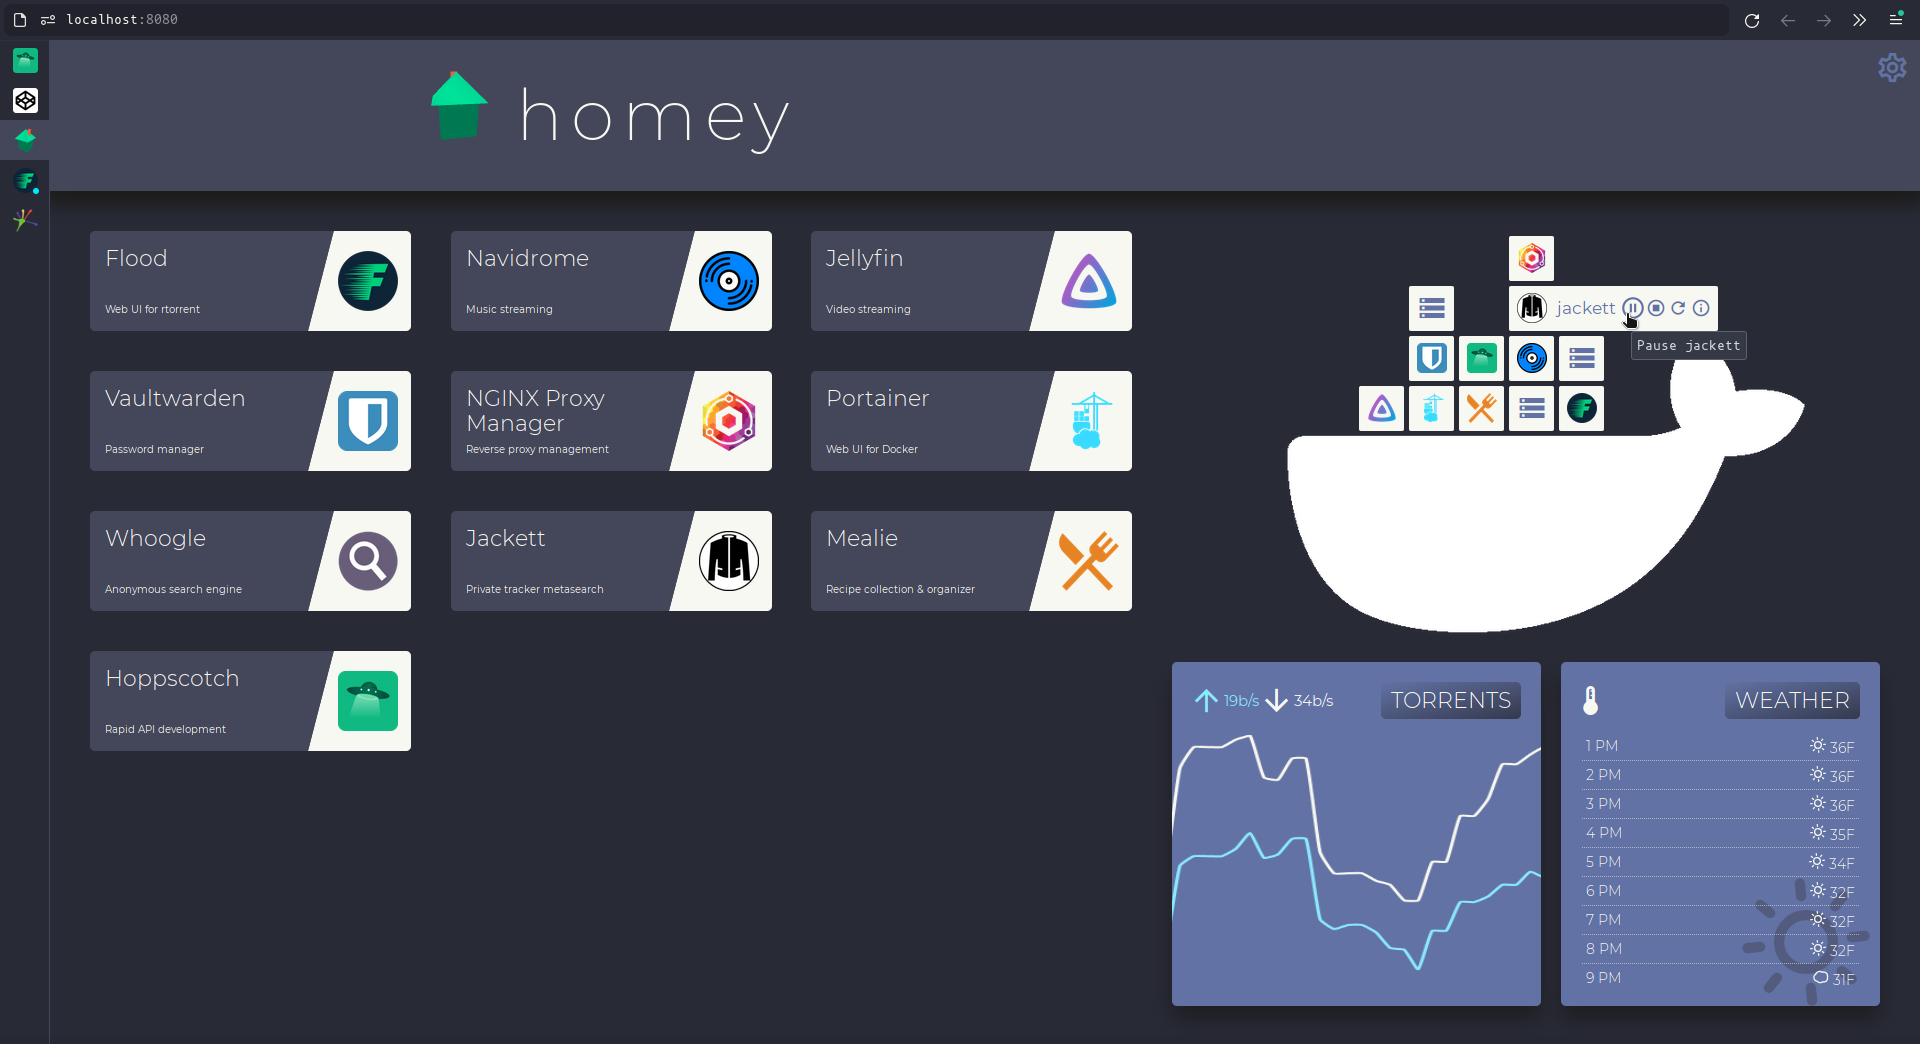
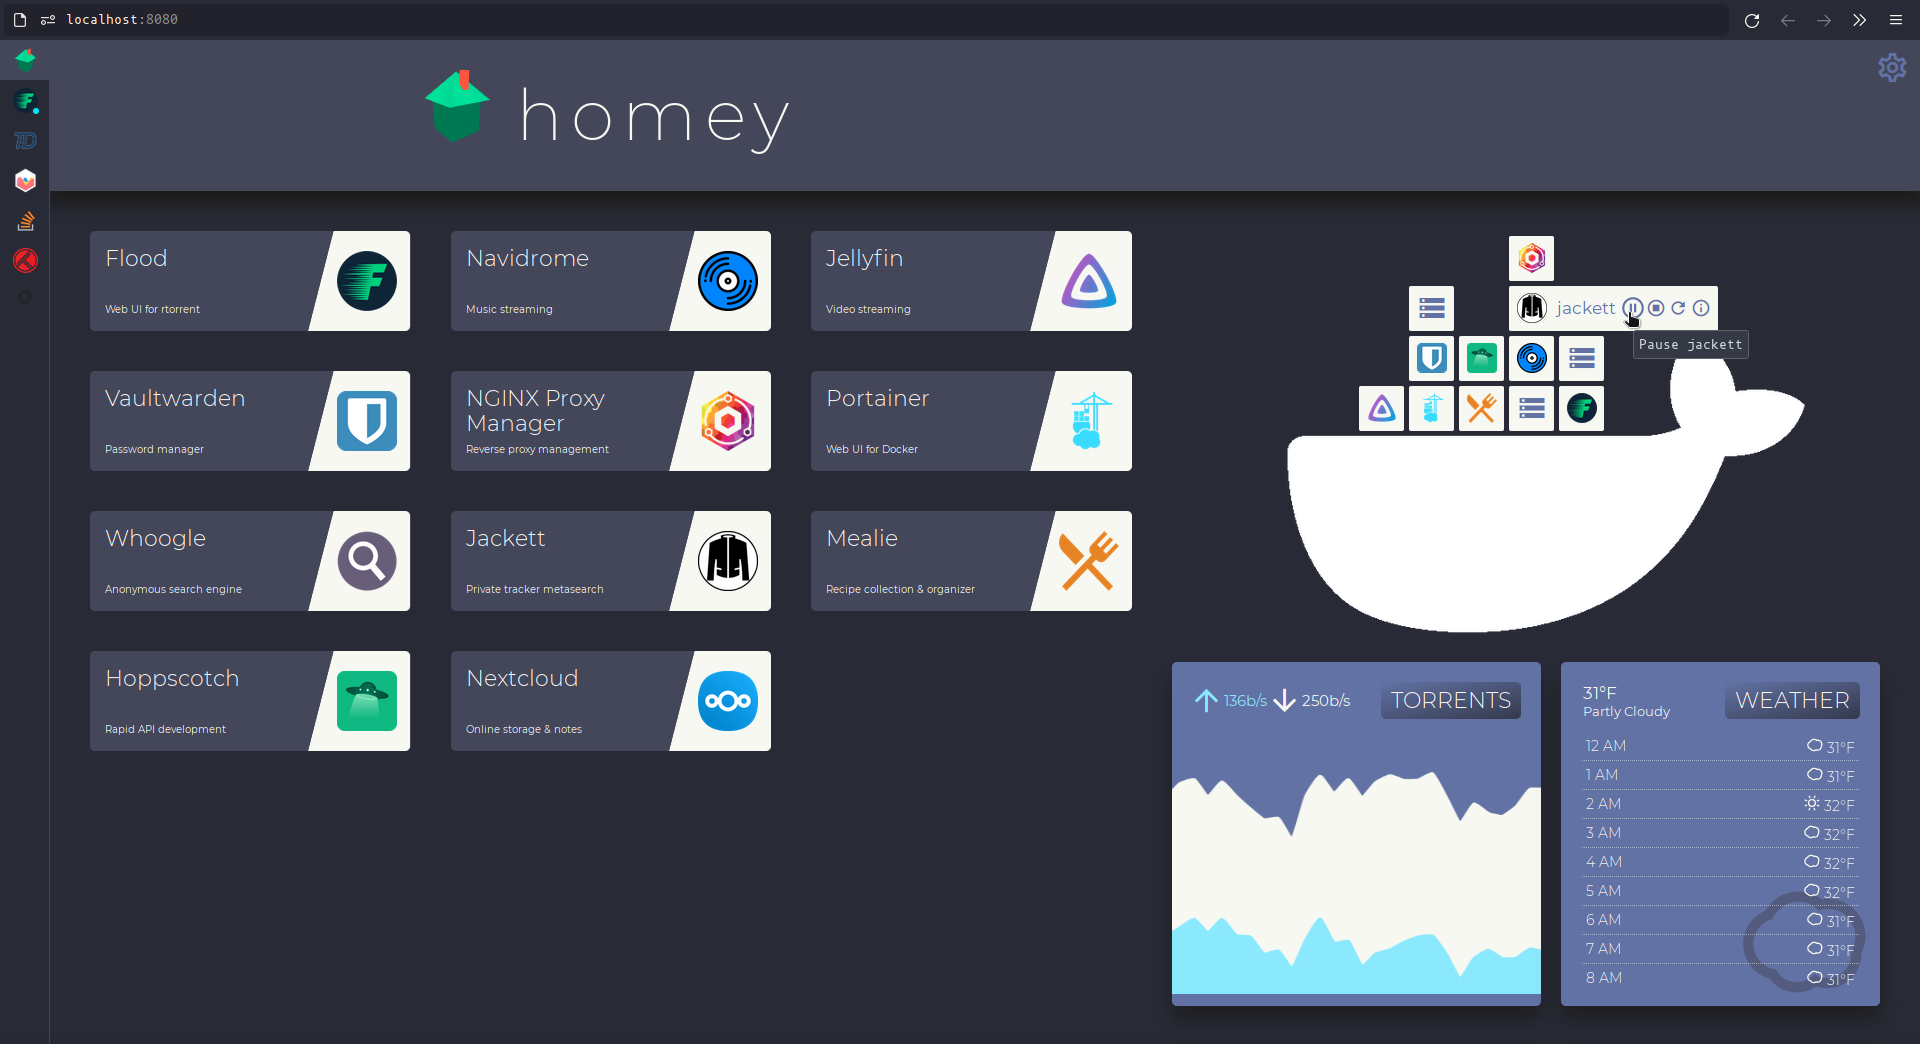
Update card styles

diff --git a/src/components/WeatherCard.vue b/src/components/WeatherCard.vue
@@ -1,11 +1,14 @@
 <template>
   <div class="weather-card-container">
       <div class="weather-card-container__side weather-card-container__side--front">
-          <skycon class="weather-card-container__skycon" v-if="weatherDataHourly.length > 1" 
-                :title="weatherDataHourly[0].weather_type" size=128 color="#44475a" :condition="getSkycon(weatherDataHourly[0].weather_type)"/>
+          <skycon class="weather-card-container__background--skycon" v-if="weatherDataHourly.length > 1" 
+                :title="getCurrentWeather.weather_type" size=128 color="#44475a" :condition="getSkycon(getCurrentWeather.weather_type)"/>
           <div class="weather-card-container__heading">
+            <!-- <skycon class="weather-card-container__heading--skycon" v-if="weatherDataHourly.length > 1" 
+                :title="getCurrentWeather.weather_type" size=48 color="#f8f8f2" :condition="getSkycon(getCurrentWeather.weather_type)"/> -->
             <div class="weather-card-container__heading--daily-details">
-              <span class="material-icons-outlined">thermostat</span>
+              <div>{{getCurrentWeather.temp}}°F</div>
+              <div>{{getCurrentWeather.weather_type}}</div>
             </div>
             <span class="weather-card-container__heading--title">Weather</span>
           </div>
@@ -15,14 +18,14 @@
                 {{w.time}}<span><skycon :title="w.weather_type" 
                   size="16" color="#F8F8F2" 
                   :condition="getSkycon(w.weather_type)"
-                /> {{w.temp}}F </span>
+                /> {{w.temp}}°F </span>
               </div>
           </div>
       </div>
       <div class="weather-card-container__side weather-card-container__side--back">
           <div class="weather-card-container__weekly-forecast">
             <ul>
-              <li v-for="n in this.weatherDataDaily" :key="n.time" class="weatherElement" >{{n.day}}: {{n.temp_min}}F - {{n.temp_max}}F ({{n.weather_type}})</li>
+              <li v-for="n in this.weatherDataDaily" :key="n.time" class="weatherElement" >{{n.day}}: {{n.temp_min}}°F - {{n.temp_max}}°F ({{n.weather_type}})</li>
             </ul>
           </div>
       </div>
@@ -47,7 +50,12 @@ export default {
     }
   },
   computed: {
-
+    getCurrentWeather: function() {
+      if(this.weatherDataHourly.length > 1){
+        return this.weatherDataHourly[0];
+      }
+      return {temp: 0, weather_type: ''}
+    }
   },
   methods: {
     getHourlyWeather: function() {

diff --git a/src/components/FloodCardChart.vue b/src/components/FloodCardChart.vue
@@ -3,14 +3,11 @@
 </template>
 
 <script>
-    //import { Line } from 'vue-chartjs'
     import { LineChart } from 'vue-chart-3';
     import Chart from 'chart.js/auto';
 
     export default {
         name: 'FloodCardChart',
-        //extends: Line,
-        //props: ['data', 'options'],
         components: {
             LineChart,
         },
@@ -20,6 +17,7 @@
         data: function() {
             return {
                 config: {
+                    responsive: true,
                     scales: {
                         x: {
                             ticks: { display: false},
@@ -57,10 +55,32 @@
                 return { 
                     labels: timeLabels,
                     datasets: [ 
-                        { label: 'Upload', data: upData, borderColor: '#8be9fd', pointRadius: 0, tension: .15 }, 
-                        { label: 'Download', data: downData, borderColor: '#f8f8f2', pointRadius: 0, tension: .15 } 
+                        { 
+                            label: 'Upload', 
+                            data: upData, 
+                            borderColor: '#8be9fd', backgroundColor: '#8be9fd', 
+                            pointRadius: 0, 
+                            tension: .15, 
+                            fill: true,
+                            order: this.getDrawOrder.up
+                        }, 
+                        { 
+                            label: 'Download', 
+                            data: downData, 
+                            borderColor: '#f8f8f2', backgroundColor: '#f8f8f2', 
+                            pointRadius: 0, 
+                            tension: .15, 
+                            fill: true, 
+                            order: this.getDrawOrder.down
+                        } 
                     ], 
                 };
+            },
+            getDrawOrder: function() {
+                if(this.chartData[this.chartData.length-1].up > this.chartData[this.chartData.length-1].down){
+                    return {up: 1, down: 0}
+                }
+                return {up: 0, down: 1}
             }
         },
         mounted() {

diff --git a/public/css/style.css b/public/css/style.css
@@ -211,7 +211,7 @@ h2 {
     .weather-card-container__side--back {
       background-color: #44475a;
       transform: rotateY(180deg); }
-  .weather-card-container__skycon {
+  .weather-card-container__background--skycon {
     position: absolute;
     bottom: 0;
     right: 1rem;
@@ -230,6 +230,10 @@ h2 {
     right: 2rem;
     justify-content: space-between;
     display: flex; }
+    .weather-card-container__heading--skycon {
+      position: absolute;
+      top: 0;
+      left: 1rem; }
     .weather-card-container__heading--title {
       font-size: 2.2rem;
       font-weight: 300;
@@ -239,14 +243,11 @@ h2 {
       border-radius: 5px;
       background-image: linear-gradient(to right bottom, rgba(98, 114, 164, 0.8), rgba(40, 42, 54, 0.8)); }
     .weather-card-container__heading--daily-details {
-      justify-self: flex-start;
-      display: flex;
-      align-items: center;
-      justify-content: space-between; }
-      .weather-card-container__heading--daily-details span {
-        font-size: 3.5rem; }
-      .weather-card-container__heading--daily-details p {
-        font-size: 1.5rem; }
+      font-size: 1.7rem;
+      margin-left: 1rem;
+      text-align: left; }
+      .weather-card-container__heading--daily-details :nth-child(2) {
+        font-size: 1.3rem; }
   .weather-card-container__details {
     font-weight: 300;
     font-size: 1.4rem;
@@ -339,11 +340,7 @@ h2 {
         color: #8be9fd; }
   .flood-card-container__chart {
     transform: scaleY(0.7) scaleX(1.1);
-    position: absolute;
-    top: 2rem;
-    padding-top: 1rem;
-    left: -1rem;
-    bottom: 2rem !important; }
+    padding-top: 4.2rem; }
   .flood-card-container__notifications ul {
     list-style: none;
     width: 80%;
@@ -416,7 +413,7 @@ h2 {
     border-bottom-left-radius: 0px;
     border-top-left-radius: 0px;
     width: 12rem;
-    padding-left: 1.7rem;
+    padding-left: 1.5rem;
     height: 10rem; }
     .service-card-container__image-container img {
       height: 6rem;

diff --git a/sass/_cards.scss b/sass/_cards.scss
@@ -52,7 +52,7 @@
         }
     }
 
-    &__skycon {
+    &__background--skycon {
         position: absolute;
         bottom: 0;
         right: 1rem;
@@ -80,6 +80,12 @@
         justify-content: space-between;
         display: flex;
 
+        &--skycon {
+            position: absolute;
+            top: 0;
+            left: 1rem;
+        }
+
         &--title {
             font-size: 2.2rem;
             font-weight: 300;
@@ -96,17 +102,12 @@
         }
 
         &--daily-details {
-            justify-self: flex-start;
-            display: flex;
-            align-items: center;
-            justify-content: space-between;
+            font-size: 1.7rem;
+            margin-left: 1rem;
+            text-align: left;
 
-            & span {
-              font-size: 3.5rem;
-            }
-
-            & p {
-                font-size: 1.5rem;
+            :nth-child(2) {
+                font-size: 1.3rem;
             }
 
         }
@@ -257,11 +258,8 @@
 
     &__chart {
         transform: scaleY(.7) scaleX(1.1);
-        position: absolute;
-        top: 2rem;
-        padding-top: 1rem;
-        left: -1rem;
-        bottom: 2rem !important;
+        //position: absolute;
+        padding-top: 4.2rem;
     }
 
     // Back

diff --git a/sass/_services.scss b/sass/_services.scss
@@ -73,7 +73,7 @@
         border-bottom-left-radius: 0px;
         border-top-left-radius: 0px;
         width: 12rem;
-        padding-left: 1.7rem;
+        padding-left: 1.5rem;
         height: 10rem;
         
         & img {
